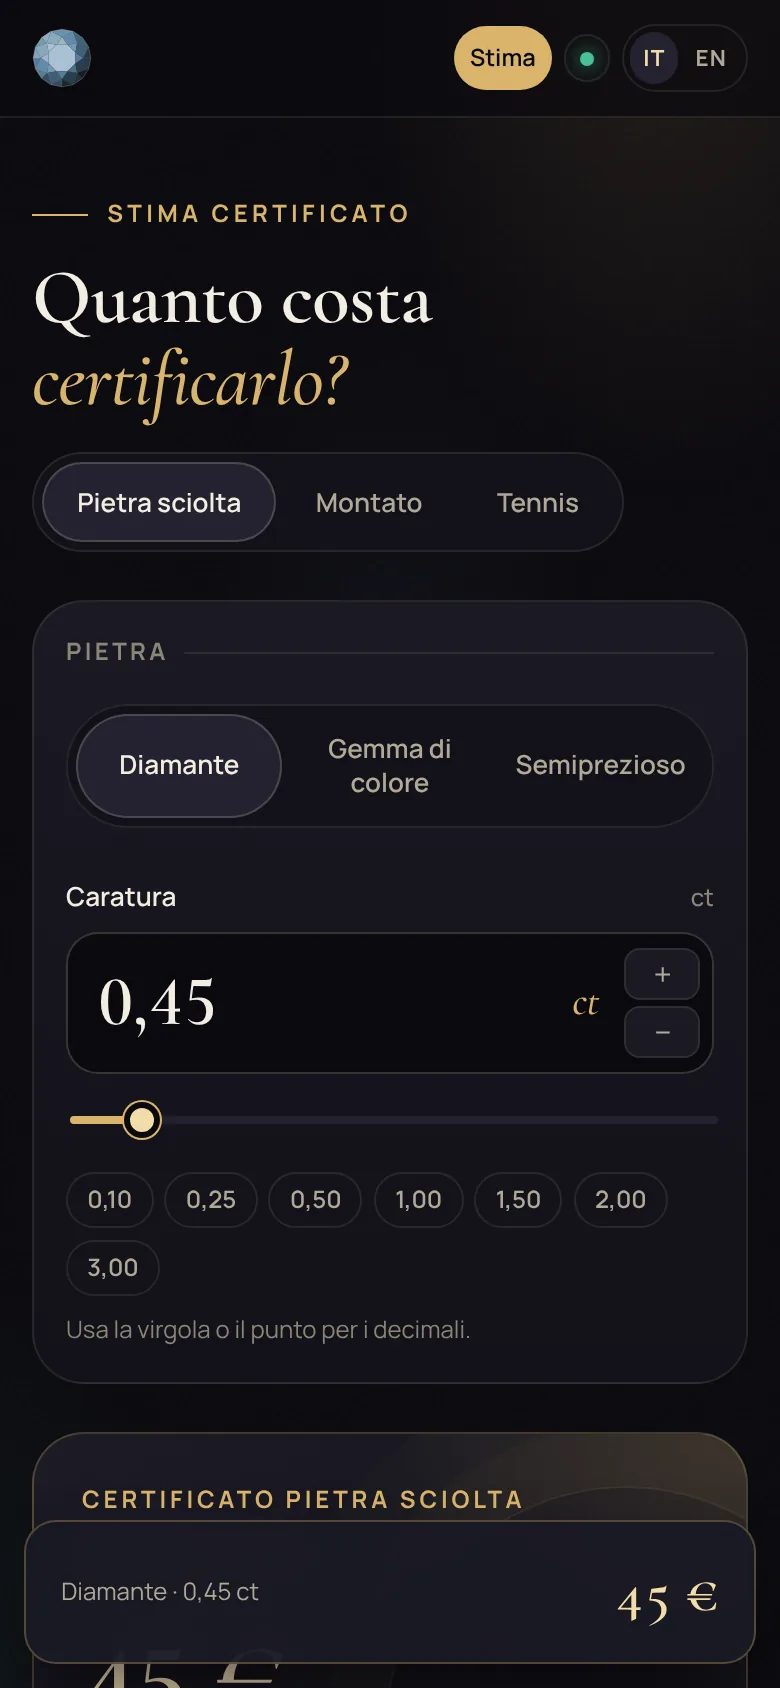
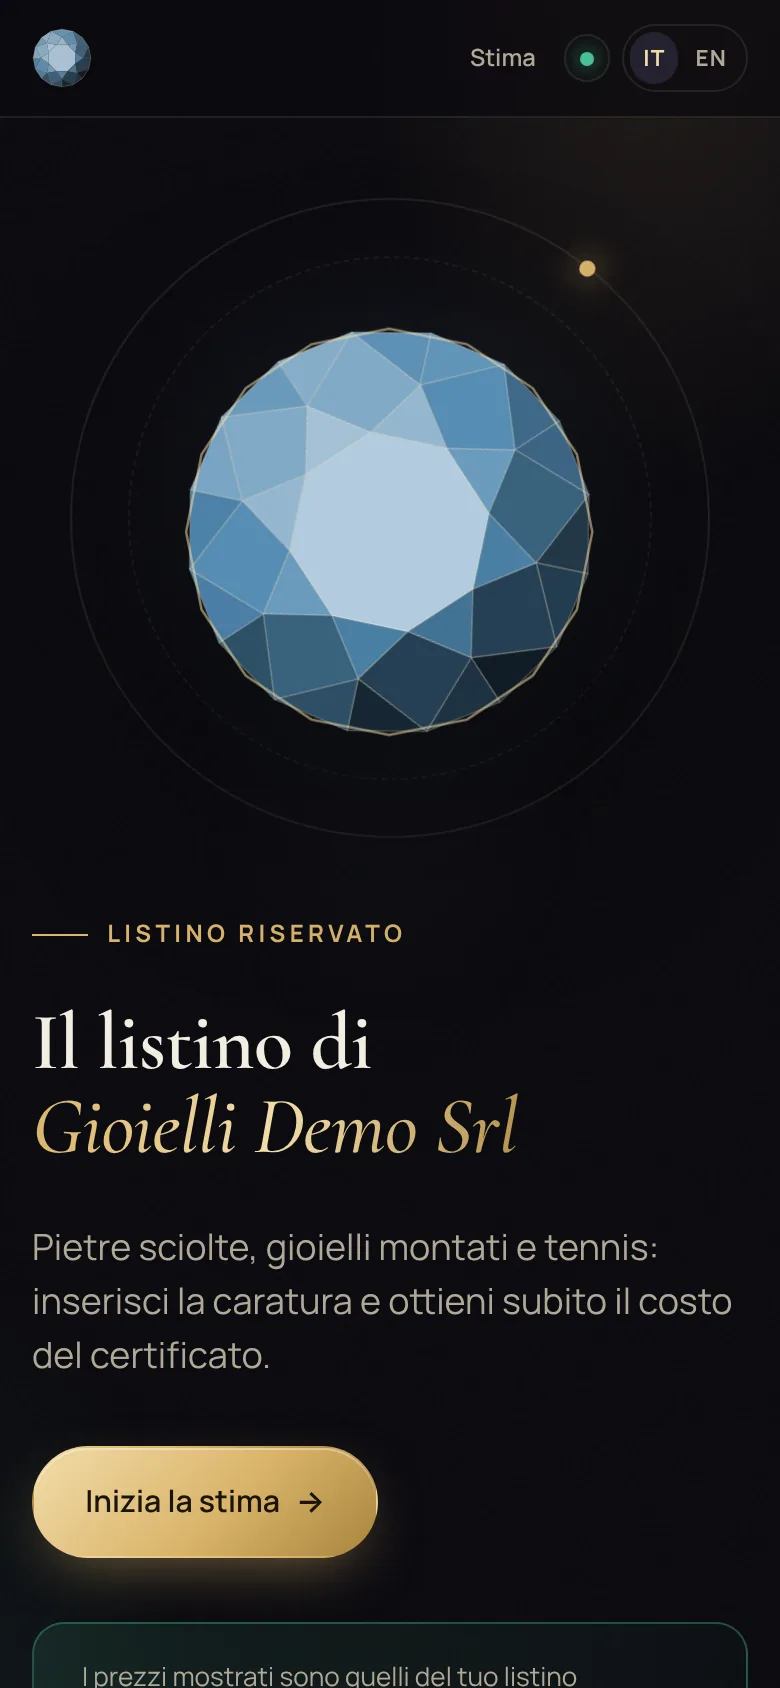
README: schermate della vista cliente con il nome
Rigenerate con il tariffario dimostrativo le due schermate della vista
cliente: la stima con il nome del cliente nell'intestazione e, da
smartphone, la home «Il listino di Gioielli Demo Srl».

Claude-Session: https://claude.ai/code/session_0129w7ki3eUzHpfFbgQWPbLh

diff --git a/README.md b/README.md
@@ -112,7 +112,7 @@ Il link contiene solo i prezzi effettivi di quel cliente, compressi, e li traspo
     <td width="50%"><b>Scheda cliente</b> — tier per categoria, prezzi su misura fascia per fascia e invio del link su WhatsApp<br><br><img src="docs/screenshots/cliente.webp" alt="Scheda cliente con prezzi su misura"></td>
   </tr>
   <tr>
-    <td width="50%"><b>Vista del cliente</b> — aperta dal link personale: un solo prezzo, senza tier né tariffe<br><br><img src="docs/screenshots/pubblica.webp" alt="Versione pubblica vista dal cliente"></td>
+    <td width="50%"><b>Vista del cliente</b> — aperta dal link personale: intestata con il suo nome, un solo prezzo, senza tier né tariffe<br><br><img src="docs/screenshots/pubblica.webp" alt="Versione pubblica vista dal cliente"></td>
     <td width="50%"><b>English</b> — interfaccia bilingue con selettore IT/EN<br><br><img src="docs/screenshots/english.webp" alt="Interfaccia in inglese"></td>
   </tr>
 </table>
@@ -126,7 +126,7 @@ Il link contiene solo i prezzi effettivi di quel cliente, compressi, e li traspo
   </tr>
 </table>
 
-**Da smartphone** — home, stima con totale sempre visibile, preventivo e vista del cliente:
+**Da smartphone** — home, stima con totale sempre visibile, preventivo e home del cliente intestata a suo nome:
 
 <p align="center">
   <img src="docs/screenshots/m-home.webp" alt="Home da smartphone" width="200">
@@ -135,7 +135,7 @@ Il link contiene solo i prezzi effettivi di quel cliente, compressi, e li traspo
   &nbsp;
   <img src="docs/screenshots/m-preventivo.webp" alt="Preventivo da smartphone" width="200">
   &nbsp;
-  <img src="docs/screenshots/m-pubblica.webp" alt="Vista cliente da smartphone" width="200">
+  <img src="docs/screenshots/m-pubblica.webp" alt="Home del cliente da smartphone, intestata con il suo nome" width="200">
 </p>
 
 ---
